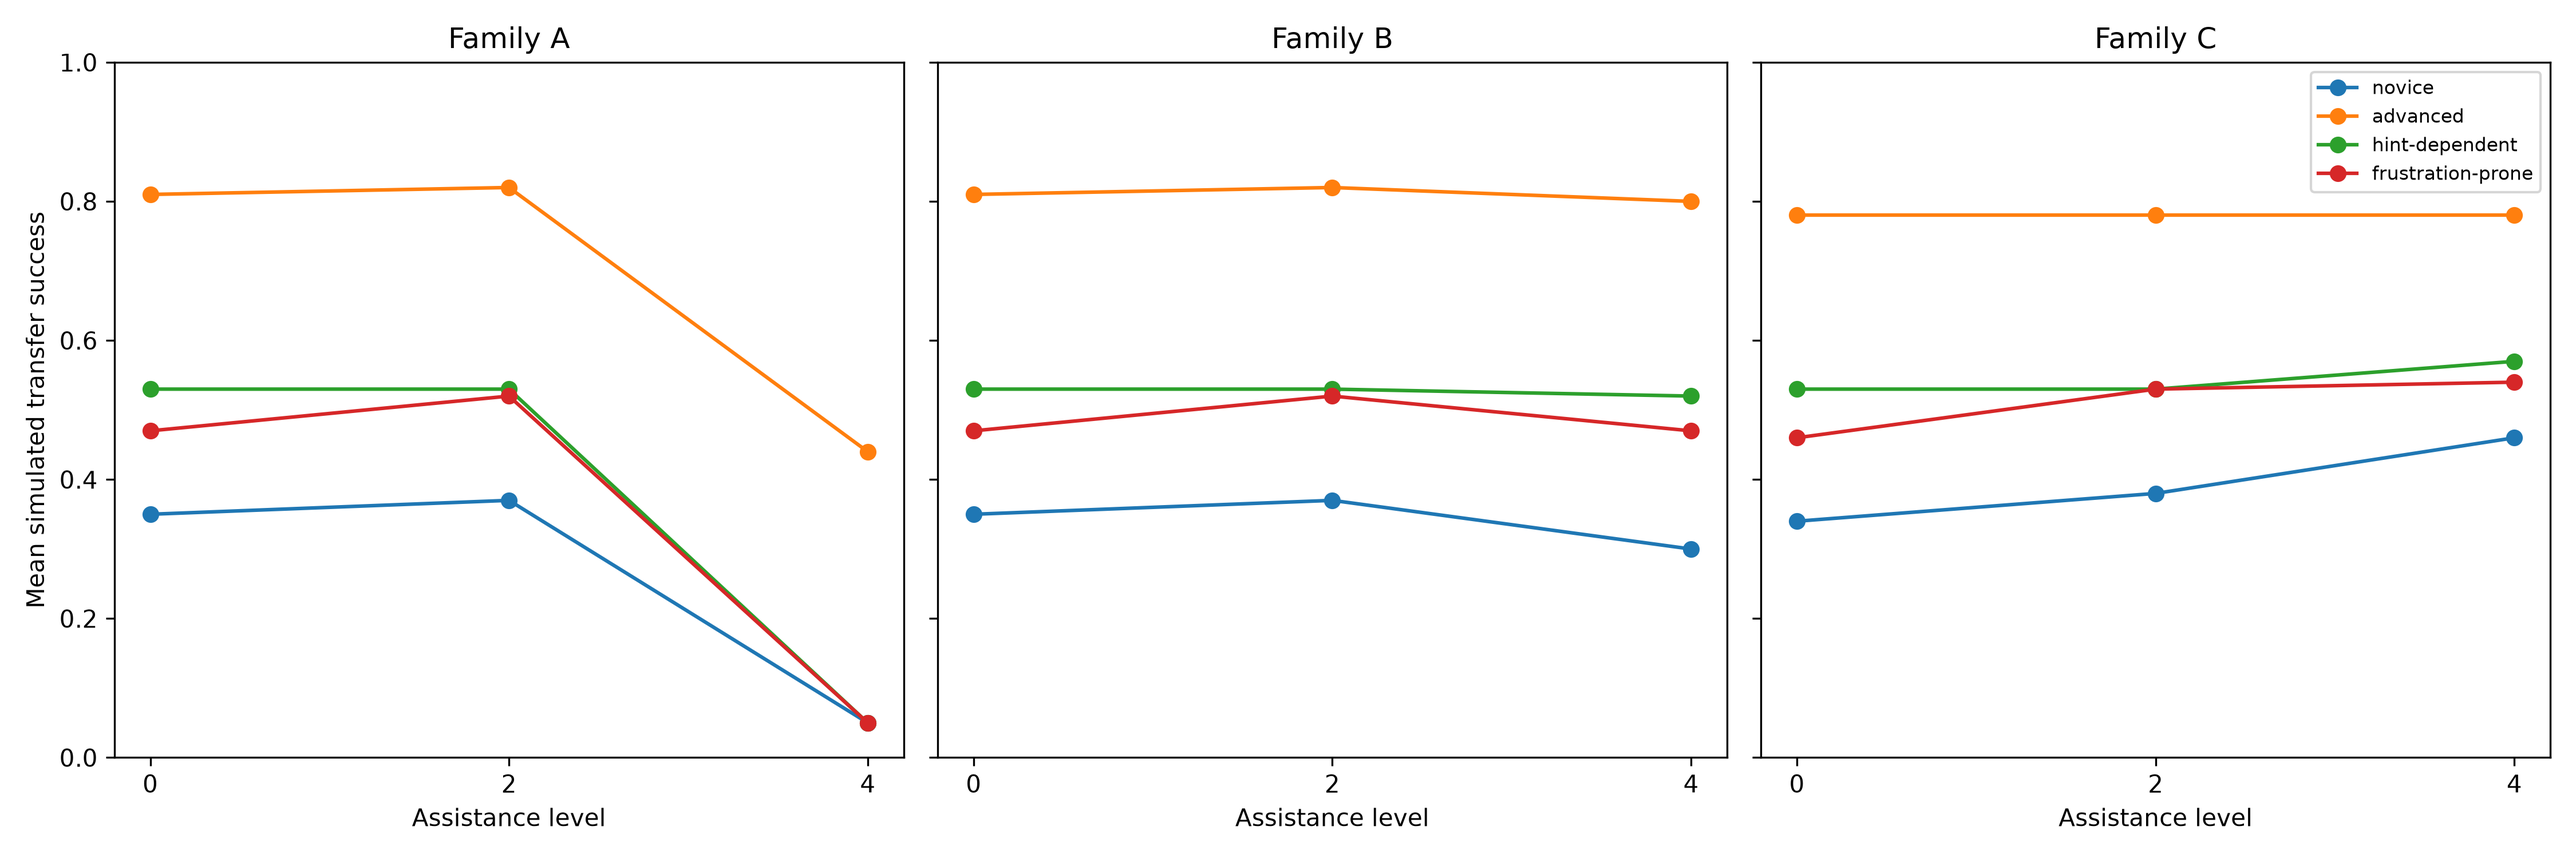
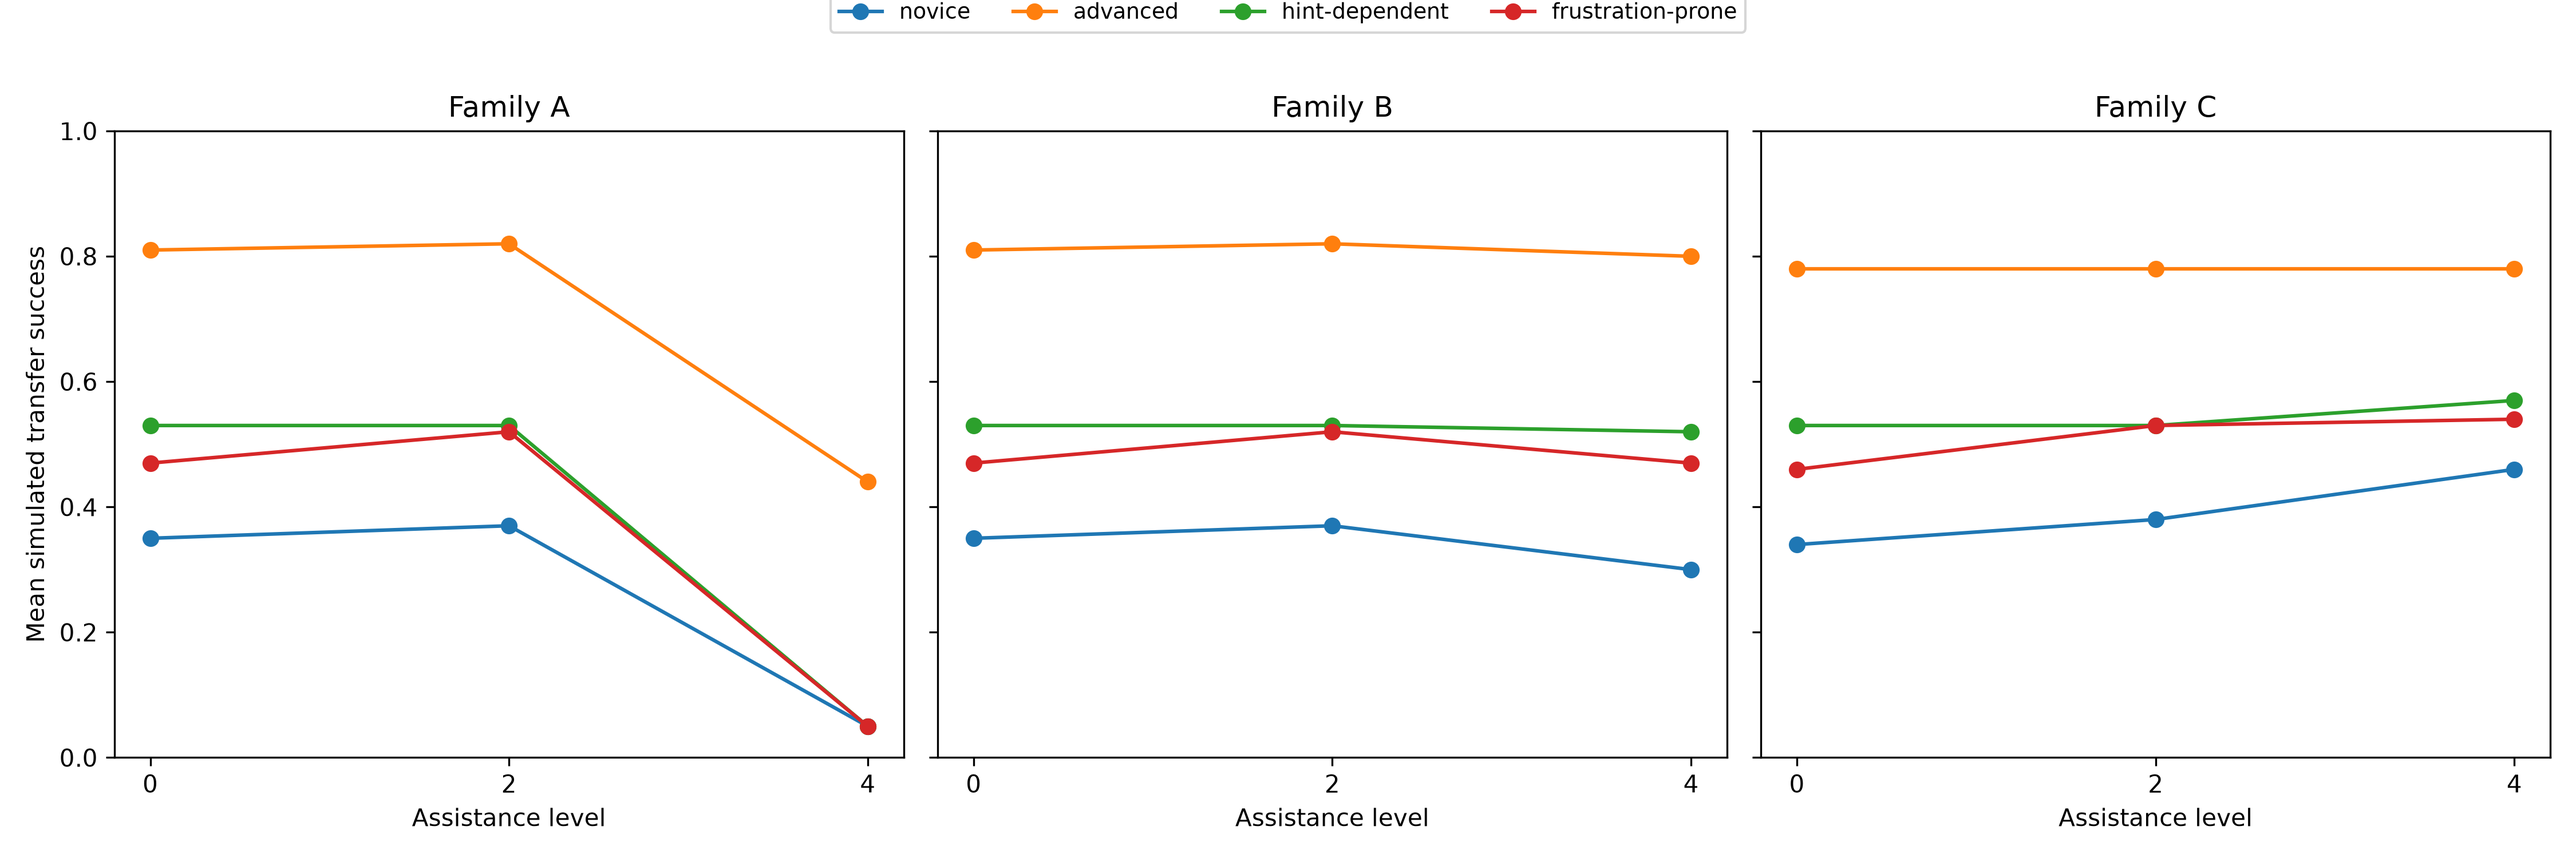
fix: improve profile transfer figure legend layout

diff --git a/sim/plot_robustness.py b/sim/plot_robustness.py
@@ -87,8 +87,18 @@ for ax, family in zip(axes, families):
     ax.set_ylim(0, 1)
 
 axes[0].set_ylabel("Mean simulated transfer success")
-axes[-1].legend(loc="best", fontsize=8)
-fig.tight_layout()
+
+handles, labels = axes[0].get_legend_handles_labels()
+fig.legend(
+    handles,
+    labels,
+    loc="upper center",
+    bbox_to_anchor=(0.5, 1.02),
+    ncol=4,
+    fontsize=9,
+)
+
+fig.tight_layout(rect=[0, 0, 1, 0.92])
 fig.savefig(OUT / "profile_transfer_comparison.png", dpi=300)
 plt.close(fig)
 
